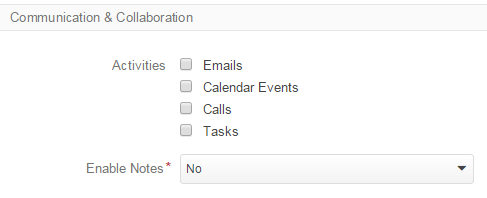
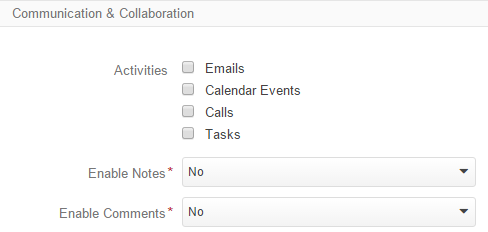
updated the entity and entity fields documents to correspond to 1.8 (new create parameters added). Fixed description of the Contact Information parameter of a field. Updated corresponding links in other documents. Changed comments description to correspond to 1.8 (Comment can be added to any entity 

diff --git a/user_guide/entities.rst b/user_guide/entities.rst
@@ -41,6 +41,8 @@ In order to create a custom entity, you have to specify its details as described
 General Information
 ^^^^^^^^^^^^^^^^^^^
 
+.. image:: ./img/entity_management/new_entity_general_information.png
+
 The following two fields are mandatory and **must** be defined:
 
 .. csv-table::
@@ -52,7 +54,8 @@ The following two fields are mandatory and **must** be defined:
   letter.
 
   The name field cannot be a `reserved sql word <http://msdn.microsoft.com/en-us/library/ms189822.aspx>`_."
-  "**Label***","The label will be used to refer to the entity in the UI. Label shall be at least 2 symbols long."
+  "**Label***","The label will be used to refer to the entity in the UI. The value shall be at least 2 symbols long."
+  "**Plural Label**","The label defined will be used to name the menu items and grids related to the entity."
 
 .. caution::
 
@@ -71,7 +74,6 @@ The following general entity details are optional and may be specified:
   :widths: 10, 30
 
   "**Icon**","All the entity records will be displayed with the icon chosen."
-  "**Plural Label**","The label defined will be used to name the menu items and grids related to the entity."
   "**Description**","Free text info to help you or other users understand the purpose and specifics of the created 
   entity in future."  
 
@@ -85,9 +87,13 @@ The section contains check-boxes for all the activities available and *"Enable N
 
 .. image:: ./img/entity_management/new_entity_communication_collaboration.png
 
-- Check the activities that you want to enable for the entity.
+- Check the :ref:`activities <user-guide-activities-index>` that you want to enable for the entity.
 
-- Choose *Yes* in the drop-down and it will be possible to add free text *Notes* to the entity records.
+- Choose *Yes* in the *"Enable Notes"* drop-down and it will be possible to add :ref:`notes <user-guide-add-note>` to 
+  the entity records.
+
+- Choose *Yes* in the  *"Enable Comments"* drop-down and it will be possible to add 
+  :ref:`comments <user-guide-activities-comments>` to the entity and/or activity records.
 
 
 .. _user-guide-entity-management-create-attachments:
@@ -110,39 +116,32 @@ You can enable attachments for the entity records and define relevant limitation
   
 .. image:: ./img/entity_management/new_entity_general_mime_types.png
 
+- Select if attachments of the records should be linked to automatically or manually. 
+
 
 .. _user-guide-entity-management-create-other:
 
 Other Settings
 ^^^^^^^^^^^^^^
 
-The following three fields must be specified for every entity created:
 
-.. csv-table::
-  :header: "Name","Description"
-  :widths: 10, 30
+.. image:: ./img/entity_management/new_entity_other.png
 
-  "**Ownership Type***","Defines the level at which permissions will be set for instances of the entity:
+- Define the level at which permissions will be set for records of the entity. (More detailed description of Ownership
+  types is available :ref:`here <user-guide-user-management-permissions-ownership-type>`).
   
-  - None: no authorization is required to see and process the entity.
-  
-  - User/Business Unit/Organization: defines the level at which an Owner can be defined.
-    
-  "
-  "**Auditable**","If enabled, the actions performed with the entity records will be recorded and can be 
+  By default the value is set to None, which means that any user in the system can access and process the records.
+
+- Define if records of the entity will be *Searchable*, i.e. if they can be found with OroCRM's 
+  :ref:`search functionality <user-guide-getting-started-search>`.
+
+- Define if the actions performed with the entity records will be recorded and can be 
   viewed with System → Audit functionality.
-  
-  " 
-  "**Workflow Step in Grid**","
 
-  - Show: if there is a workflow defined for the entity, the workflow *Step* will be displayed on the entity records 
-    :ref:`grid <user-guide-ui-components-grids>`.
-
-  - Hide: no steps will be shown in the grid, even if there is a workflow defined for the entity."
+- Define if the steps of a related :ref:`workflow <user-guide-workflow-management-basics>` will be displayed on the 
+  entity records :ref:`grid <user-guide-ui-components-grids>`. 
   
 
-.. _user-guide-entity-management-create-fields:
-  
 Add Fields to an Entity
 -----------------------
 
@@ -173,8 +172,7 @@ so please be patient.
 Manage Entities
 ---------------
 
-Sometimes there is a need to edit existing entities of OroCRM from the 
-Web UI.
+Sometimes there is a need to edit existing entities of OroCRM from the Web UI.
 
 Entities Grid 
 ^^^^^^^^^^^^^
@@ -200,10 +198,14 @@ The following table describes columns of the Entities grid and how they affect a
   directly, however, you need to have permissions to edit the entity (See System → User Management → Roles)."
   "**NAME** and **MODULE**","Define the name used to refer to the entity at the back-end. Comes handy if there is a 
   need to change configuration or otherwise find the entity in the code.","No"
+  "**DELETED**","Defines if the entity has been deleted since the latest schema updated.","Entities that have been 
+  deleted can be viewed, edited and restored until the next schema update."
+  "**ORGANIZATION**","For systems with :ref:`multiple organizations <user-ee-multi-org>` shows, to which organizations 
+  the entity belongs.","No"
   "**UPDATED AT**","The date and time of the last schema update for the entity.","No"
   "...","Hover your mouse over the *...* to access the action icons.","Use the icons to manage the entity."  
 
-This way, ability to add :ref:`new fields <user-guide-entity-management-create-fields>` depends on the entity, 
+This way, ability to add :ref:`new fields <user-guide-field-management>` depends on the entity, 
 :ref:`Edit form <user-guide-ui-components-create-pages>` is available for any entity in the system. 
 List of editable properties for each of the System type entities depends on 
 configuration and is created in a way reasonable and safe for the system performance and operation. 

diff --git a/user_guide/entity_fields.rst b/user_guide/entity_fields.rst
@@ -87,35 +87,22 @@ Start Creating an Entity Field
 A bigger form will appear where you can define more field details, subject to the chosen field type.
 
 
-.. _user-guide-entity-management-create-fields-common:
-
-Create and Entity of a Specific Type
-^^^^^^^^^^^^^^^^^^^^^^^^^^^^^^^^^^^^
-The bigger form for creation of an entity field has the following three sections:
-
-- **General Information**: see and define general field properties in the section.
-
-- **Import & Export**: define the rules applied to the specific field in the course of 
-  :ref:`export/import <user-guide-export-import>` of the entity.
-
-- **Other**: define additional properties of the field.
-
-Properties that can be defined may vary subject to the chosen field type. 
-The following sections provide description of common properties defined for all or most of the types and peculiarities 
-of specific types.
-
-
 .. _user-guide-entity-management-common:
 
-Common Settings
-"""""""""""""""
+Common Settings of a Created Entity
+^^^^^^^^^^^^^^^^^^^^^^^^^^^^^^^^^^^
+
+Properties that can be defined may vary subject to the chosen field type. 
+
+The following sections provide description of common properties defined for all or most of the types and peculiarities 
+of specific types.
 
 .. _user-guide-entity-management-general-common:
 
 General Information
-*******************
+"""""""""""""""""""
 
-The following details are available in the section:
+The following details are available in the section for entities of all types:
 
 **Name***, **Storage Type*** and **Type***: the values that were specified at the previous step and cannot be 
 re-defined.
@@ -128,7 +115,7 @@ the purpose and specifics of the created field.
 
 .. _user-guide-entity-management-export-import-common:
 
-Export and Import
+Import and Export
 *****************
 
 The following details are available in the section:
@@ -162,8 +149,13 @@ The following Yes/No options can be defined:
   :widths: 10,30
 
   "**Available in Email Templates**","If set to *Yes*, values of the field can be used to create email patterns."
-  "**Contact Information**","If set to *Yes*, the field value shall be treated by the system as contact details. (E.g.
-  can be used to create marketing lists)."
+  "**Contact Information**","Possible values are:
+    
+    - empty: the field will not be treated as a contact information
+    - *Email*: values of the field will be treated by the system as an email address
+    - *Phone*: values of the field will be treated by the system as a phone number
+
+  "
   "**Show on Grid**","If set to *Yes*, the field will be displayed in a separate column of the respective grid."
   "**Show Grid Filter**","Not available for serialized fields. If set to *Yes*, a corresponding filter will be added to 
   the :ref:`grid filters <user-guide-ui-components-grid-filters>` by default." 
@@ -175,6 +167,9 @@ The following Yes/No options can be defined:
   Custom fields are always displayed one after another, usually below the system fields. If no priority is defined or the 
   defined priority is 0, the fields will be displayed in the order they have been added to the system (the later - the
   lower). The fields with a higher priority (a bigger value) will be displayed before the fields with a lower priority."
+  "**Searchable**","If set to *Yes*, the entities can be found with OroCRM's 
+  :ref:`search functionality <user-guide-getting-started-search>` by values of this field."
+  "**The Search Result Title**","If set to *Yes*, the field value will be included into the search result title."
   "**Auditable**","Not available for serialized fields. If set to *Yes*, data on the field processing details is 
   logged."
   "**Applicable Organizations**","Defines for what :term:`organizations <Organization>` the custom field will be added 
@@ -464,7 +459,7 @@ The following actions are available from the *Fields* section of a View page of 
 
 
   All the properties of custom fields but their name and type may be edited. The properties are the same as when 
-  you :ref:`create a field <user-guide-entity-management-create-fields>`.
+  you create a field.
 
   The list of properties editable for System fields depends on configuration and is created in a way reasonable and safe 
   for the system performance and operation.  

diff --git a/user_guide/activities_add_comment.rst b/user_guide/activities_add_comment.rst
@@ -3,20 +3,24 @@
 Add Comment
 ===========
 
-If you want to comment details of an :ref:`activity <user-guide-activities>`, other than a contact request (e.g. leave 
-some additional details of task, comment on an email sent or a call made, etc.) use the "*Add Comment"* action.
+Interaction between users is an important part of successful work. In order to enable users to leave comments on records
+of an :term:`entity <Entity>` or on details of an :ref:`activity <user-guide-activities>`, other than a contact request 
+(e.g. leave some additional details of task, comment on an email sent or a call made, etc.) use the "*Add Comment"* 
+action.
 
 .. note::
 
-    Comments are available only for the actions that have the Comments activity 
+    Comments are available for any activity or entity that has the Comments activity 
     :ref:`enabled <user-guide-activities-enable>`.
 
 
 Create and View Comments
 ------------------------
 
-Once an activity has been created, a comment can be added to it from either its Edit page or from the View page of a 
-record the activity is related to.
+Once a record or an activity have been created, a comment can be added to it from:
+- :ref:`View page <user-guide-ui-components-view-pages>` of a record.
+- :ref:`Edit form <user-guide-ui-components-create-pages>` page of an activity
+- View page of a record the activity is related to.
 
 .. caution::
 
@@ -24,15 +28,8 @@ record the activity is related to.
    Comment entity.
 
 
-So, if an activity has been related to a user, you can:
+On these pages, the user should: 
 
-- View the activity details:
-
-  - Go to the View page of the record and open to the Record Activities section (or the User Tasks if you want to 
-    comment on a task assigned to a user and click on the activity title.
-
-  - Alternatively, go to the activities grid and click the icon to get to the activity View page.
-  
 - Click the :guilabel:`Add Comment` button.
 
 - Enter the comment into the the text-box.

diff --git a/user_guide/activities_overview.rst b/user_guide/activities_overview.rst
@@ -29,7 +29,7 @@ business needs. Follow the links to learn more about the following activities av
 - :ref:`Create Contact Request <user-guide-activities-requests>`: keep track of requests to OroCRM from users of 
   third-party applications.
 
-- :ref:`Add Comment <user-guide-activities-comments>`: add free text comments to the activity records.
+- :ref:`Add Comment <user-guide-activities-comments>`: add free text comments to the activity and entity records.
 
 - :ref:`Add Attachment <user-guide-activities-attachments>`: upload a file and assign it to a record in OroCRM.
 
@@ -39,17 +39,14 @@ business needs. Follow the links to learn more about the following activities av
 How to Enable Activities for an Entity
 --------------------------------------
 
-Most of the activities can be enabled for the entity records in the *Communication & Collaboration* section of the
+Activities can be enabled for the entity records in the *Communication & Collaboration* section of the
 :ref:`entity edit/create form <user-guide-entity-management-create>`.
 
-.. image:: ./img/activities/comments.png
+.. image:: ./img/entity_management/new_entity_communication_collaboration.png
 
 - Check the activities that you want to enable for the entity.
                                    
-- Choose *Yes* in the drop-down menu and it will be possible to add free text *Notes* to the entity records.
-
-- The *Add Comment* drop-down menu is meaningful for activities only. You can change the comment setting for the activities
-  available in the system.
+- Choose *Yes* in the drop-down in the corresponding menu to enable free text notes and comments.
 
 Once such an activity has been enabled, it will appear in the 
 :ref:`actions <user-guide-ui-components-view-page-actions>` tab of the record View pages.

diff --git a/user_guide/activities_send_email.rst b/user_guide/activities_send_email.rst
@@ -43,12 +43,15 @@ The  action will be available for records of entities with the *"Emails"* activi
   menu."
   "**Type***","Choose whether you want to use html or plain text for the email. The type is by default set to html."
   "**Body**","Define the email body."
+  "**Context**","Select the records in OroCRM related to this email."
+  
    
 For example, we have created an email for the contact Jeffrey Maynard:
 
 - The "From" field was automatically filled in with an email address of the user John Doe.
 - The "To" field was  filled in with the email address of the contact.
 - We've chosen the Happy Birthday template, which automatically defined the  subject and body. 
+- This email is related to the chosen contact.  
 
 .. image:: ./img/activities/send_email_ex.png  
 

diff --git a/user_guide/import_export_functionality.rst b/user_guide/import_export_functionality.rst
@@ -71,7 +71,7 @@ Export
 .. note::
 
     Please note that scope of record details exported, their names and position in the .csv file depend on the 
-    :ref:`Import&Export settings <user-guide-entity-management-create-fields-common>` of the entity fields.
+    :ref:`Import&Export settings <user-guide-entity-management-export-import-common>` of the entity fields.
 
 
 

diff --git a/user_guide/glossary.rst b/user_guide/glossary.rst
@@ -126,6 +126,8 @@ Glossary
        A system :term:`entity <Entity>`. Its :term:`records <Record>` represent a certain issue, problem or failures 
        reported by the customers.   
  
+   Context
+       A set of :term:`records <Record>` related to a certain email, task or event.   
 
 
 .. |WT02| replace:: Shopping Carts
